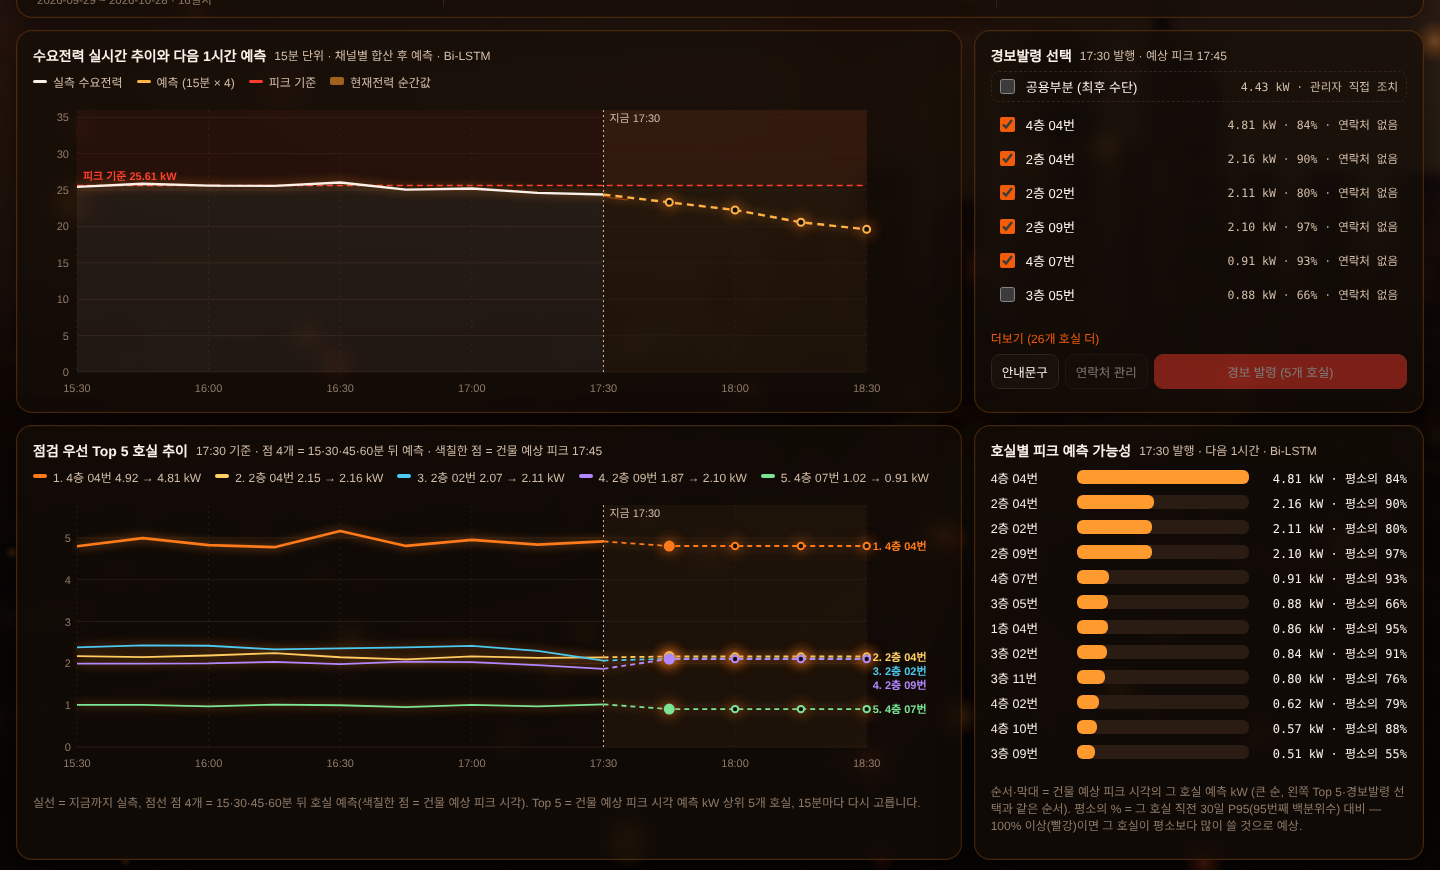
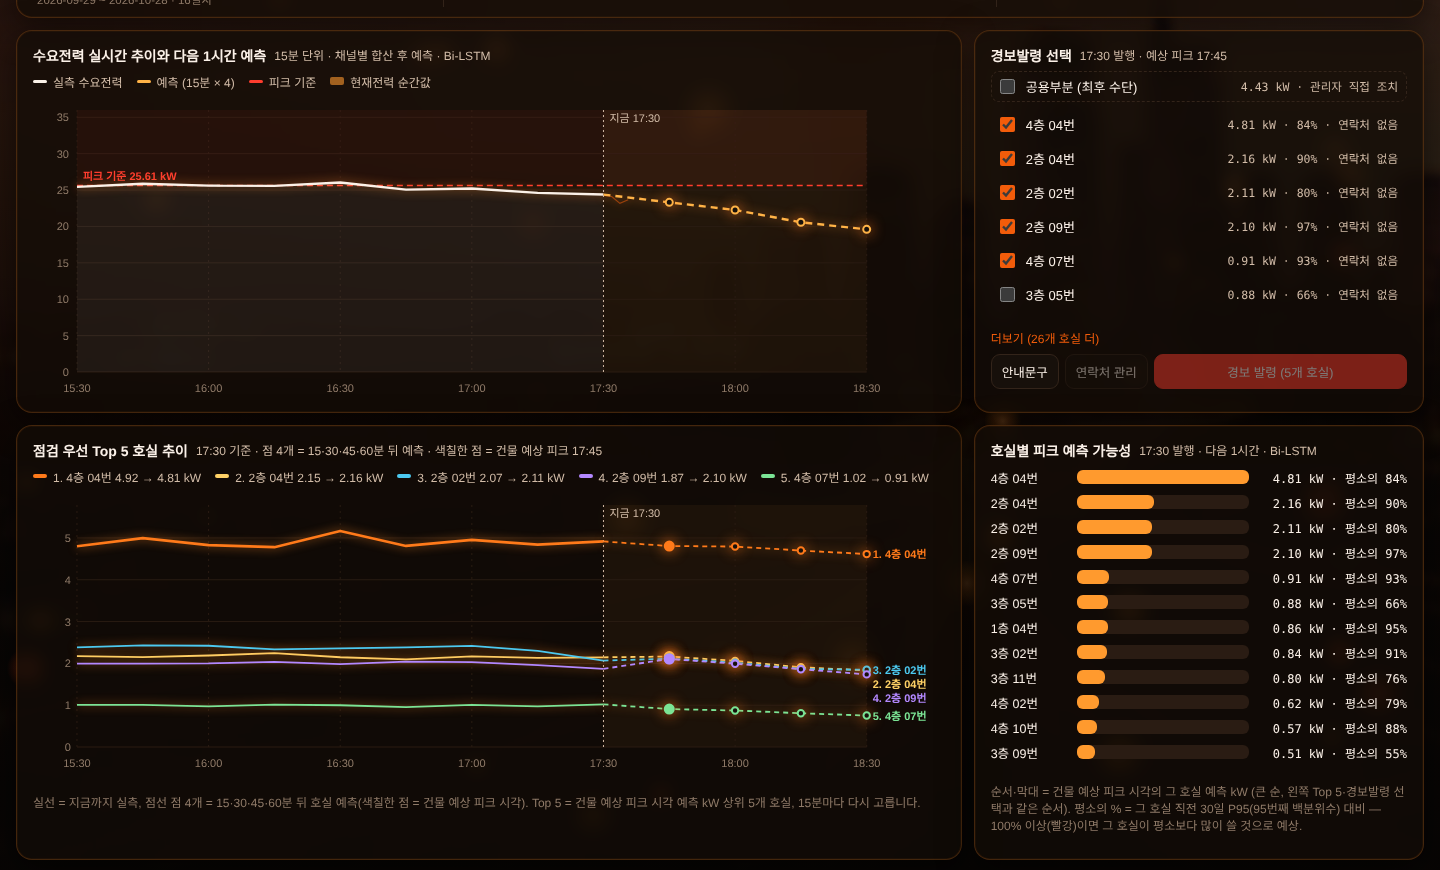
[Front] 시연용 파일: Top 5 호실 예측 점 4개 자료(rp) 연결
Claude-Session: https://claude.ai/code/session_014oMd8fQK5VtW4inGyf7eWS

diff --git a/web/static/common.js b/web/static/common.js
@@ -23,7 +23,7 @@ window.PG = window.PG || {};
       const day = m && PG.STATIC.replay[m[1]], mo = day && day.models[decodeURIComponent(m[2])];
       if (mo) {
         const at = Object.fromEntries(mo.t.map((t, k) => [t, k]));
-        const frames = day.frames.filter((f) => f.t in at).map((f) => ({ ...f, pred: mo.pred[at[f.t]], proom: mo.proom[at[f.t]] }));
+        const frames = day.frames.filter((f) => f.t in at).map((f) => ({ ...f, pred: mo.pred[at[f.t]], proom: mo.proom[at[f.t]], rp: mo.rp && mo.rp[at[f.t]] }));
         return { ...day, ...mo, frames, models: undefined };
       }
       throw new Error('시연용 파일에는 이 자료가 없습니다 (서버 실행 시 가능)');
